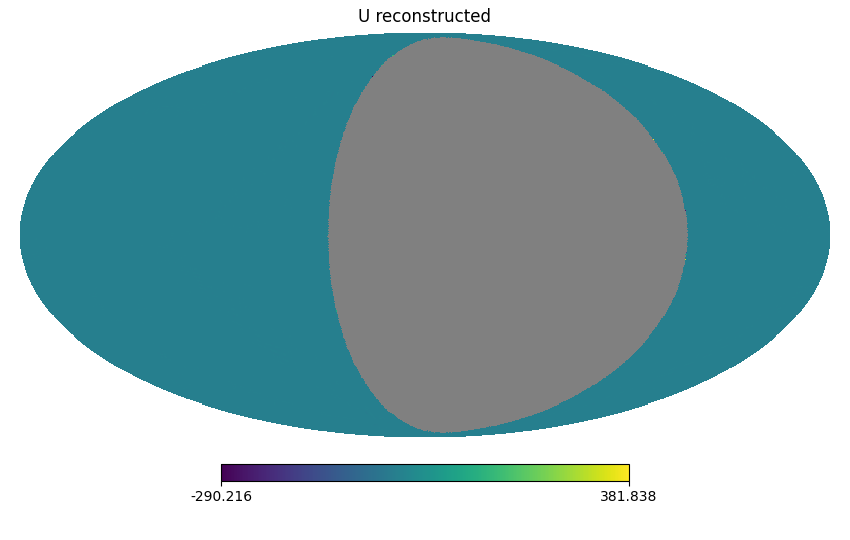
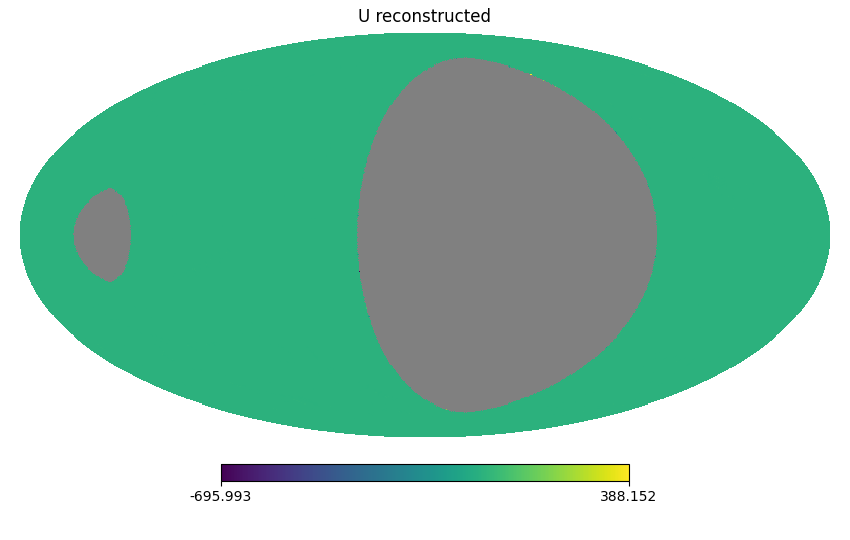
fixed detectors

diff --git a/beamconv/pipeline.py b/beamconv/pipeline.py
@@ -39,6 +39,9 @@ start = time.time()
 # should be passed as an input parameter
 month = 0
 
+first_det = 122
+first_det = 4
+
 ########################################################
 # INPUT MAPS
 ########################################################
@@ -59,8 +62,8 @@ plt.savefig('I_input.png')
 hp.visufunc.mollview(map_FG[1],title='Q input')
 plt.savefig('Q_input.png')
 
-hp.visufunc.mollview(map_FG[2],title='V input')
-plt.savefig('V_input.png')
+hp.visufunc.mollview(map_FG[2],title='U input')
+plt.savefig('U_input.png')
 
 ########################################################
 # SCANNING STRATEGY
@@ -253,6 +256,8 @@ for i in det_indices:
     if list_of_dictionaries[i]['name']=='M03_030_QA_140B':
         print(i)
         
+print(orient_array)
+        
 print('detector '+str(list_of_dictionaries[122]['name'])+': '+str(quat_array[122]))
 print('detector '+str(list_of_dictionaries[123]['name'])+': '+str(quat_array[123]))
 
@@ -266,16 +271,18 @@ quats = np.zeros((ndet,2,4))
 deads = np.tile(np.array([0,1]),(ndet,1))
 
 for i in range(ndet):
-    quats[i,0,0] = quat_array[122+i,3] # the offset quaternions are taken from the IMO
-    quats[i,0,1:4] = quat_array[122+i,0:3] # the offset quaternions are taken from the IMO
-    if list_of_dictionaries[i]['orient']=='Q':
-        if list_of_dictionaries[i]['pol']=='T':
+    quats[i,0,0] = quat_array[first_det+i,3] # the offset quaternions are taken from the IMO
+    quats[i,0,1:4] = quat_array[first_det+i,0:3] # the offset quaternions are taken from the IMO
+    if list_of_dictionaries[first_det+i]['orient']=='Q':
+        if list_of_dictionaries[first_det+i]['pol']=='T':
             polangs[i,0] = 0
         else: polangs[i,0] = 90
     else:
-        if list_of_dictionaries[i]['pol']=='T':
+        if list_of_dictionaries[first_det+i]['pol']=='T':
             polangs[i,0] = 45
         else: polangs[i,0] = 135
+
+print(polangs)
     
 # setting up the beam options
 beam_opts = dict(lmax=lmax,
